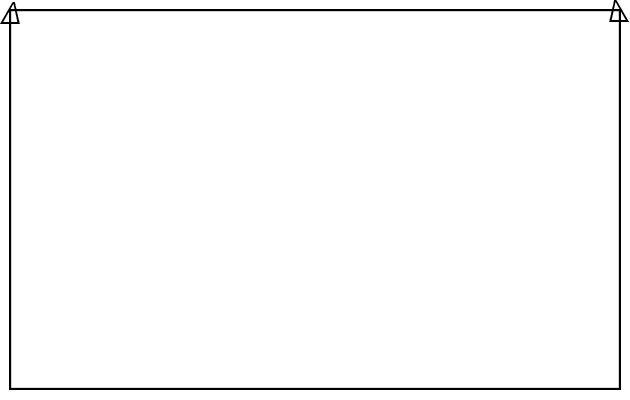
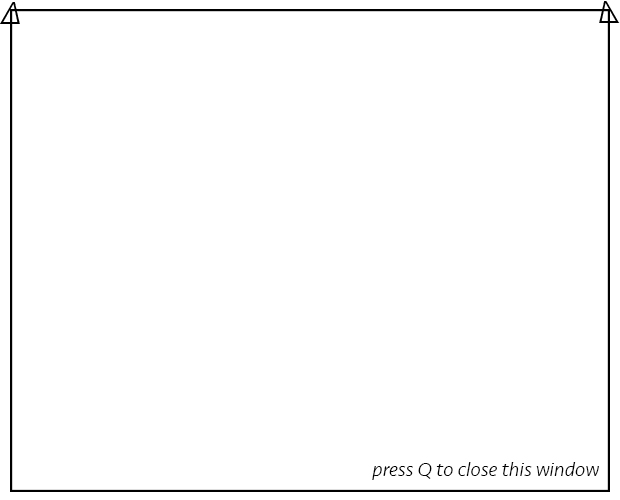
Fix window displaying

Changed region(s): [[0.0, 0.0, 1.0, 0.99]]

diff --git a/game.rb b/game.rb
@@ -94,7 +94,8 @@ class GameWindow < Gosu::Window
         line_y += 10
       end
 
-      @chan_image.draw(10, 350, 3)
+      @font.draw("This is an image of it:",40, 120,  3, 1.0, 1.0, 0xff_000000)
+      @chan_image.draw(30, 170, 3)
     end
 
     if @menu_state == true
